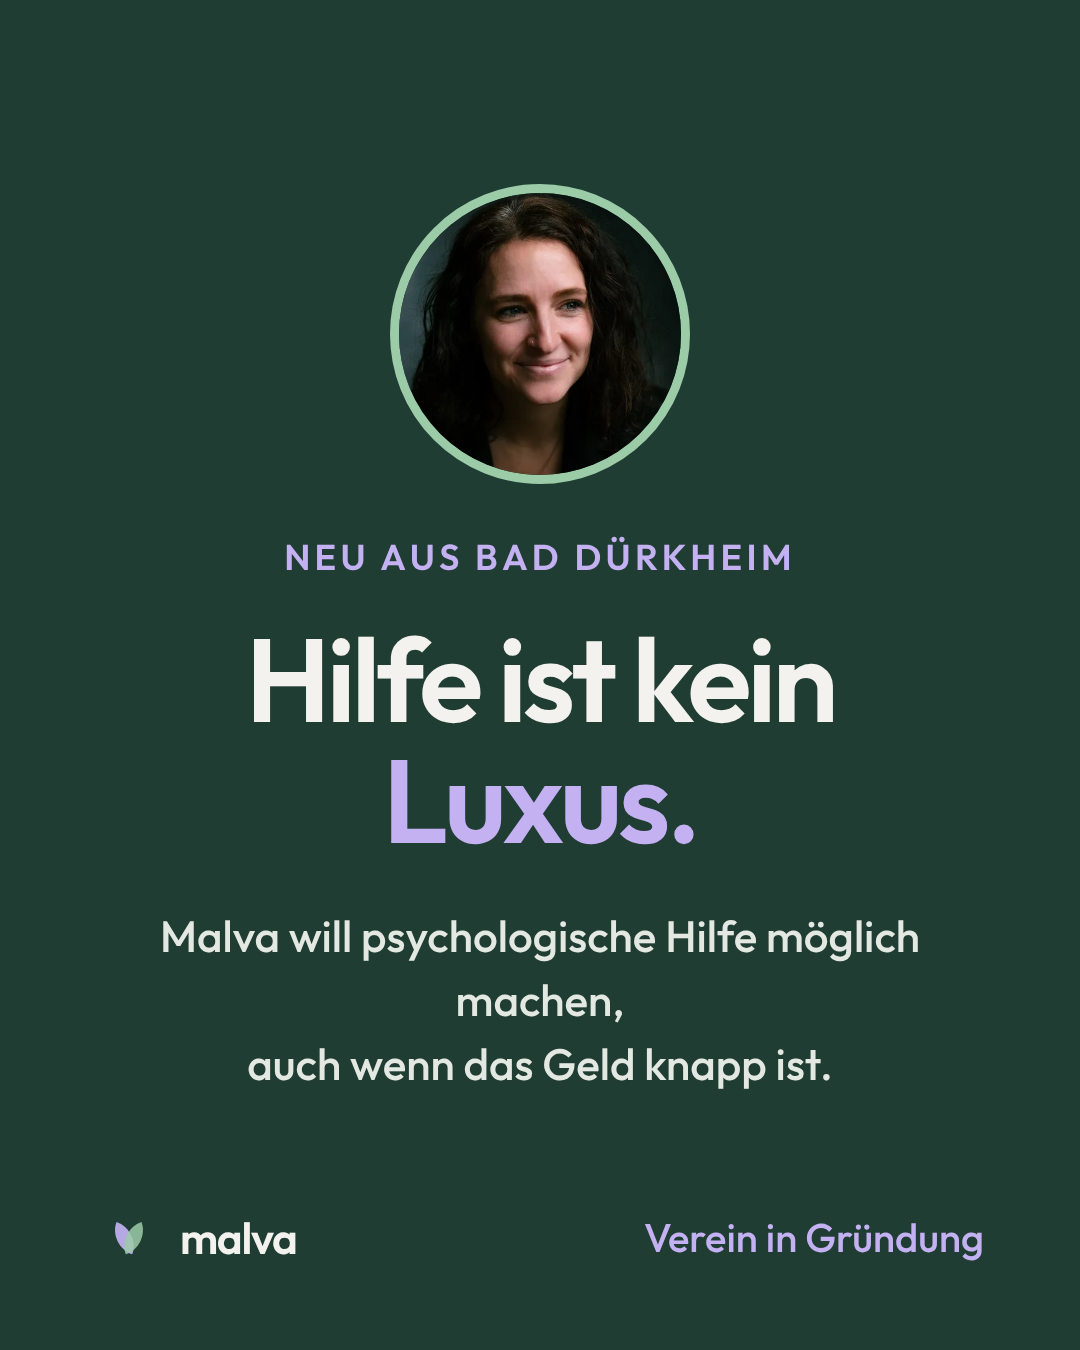
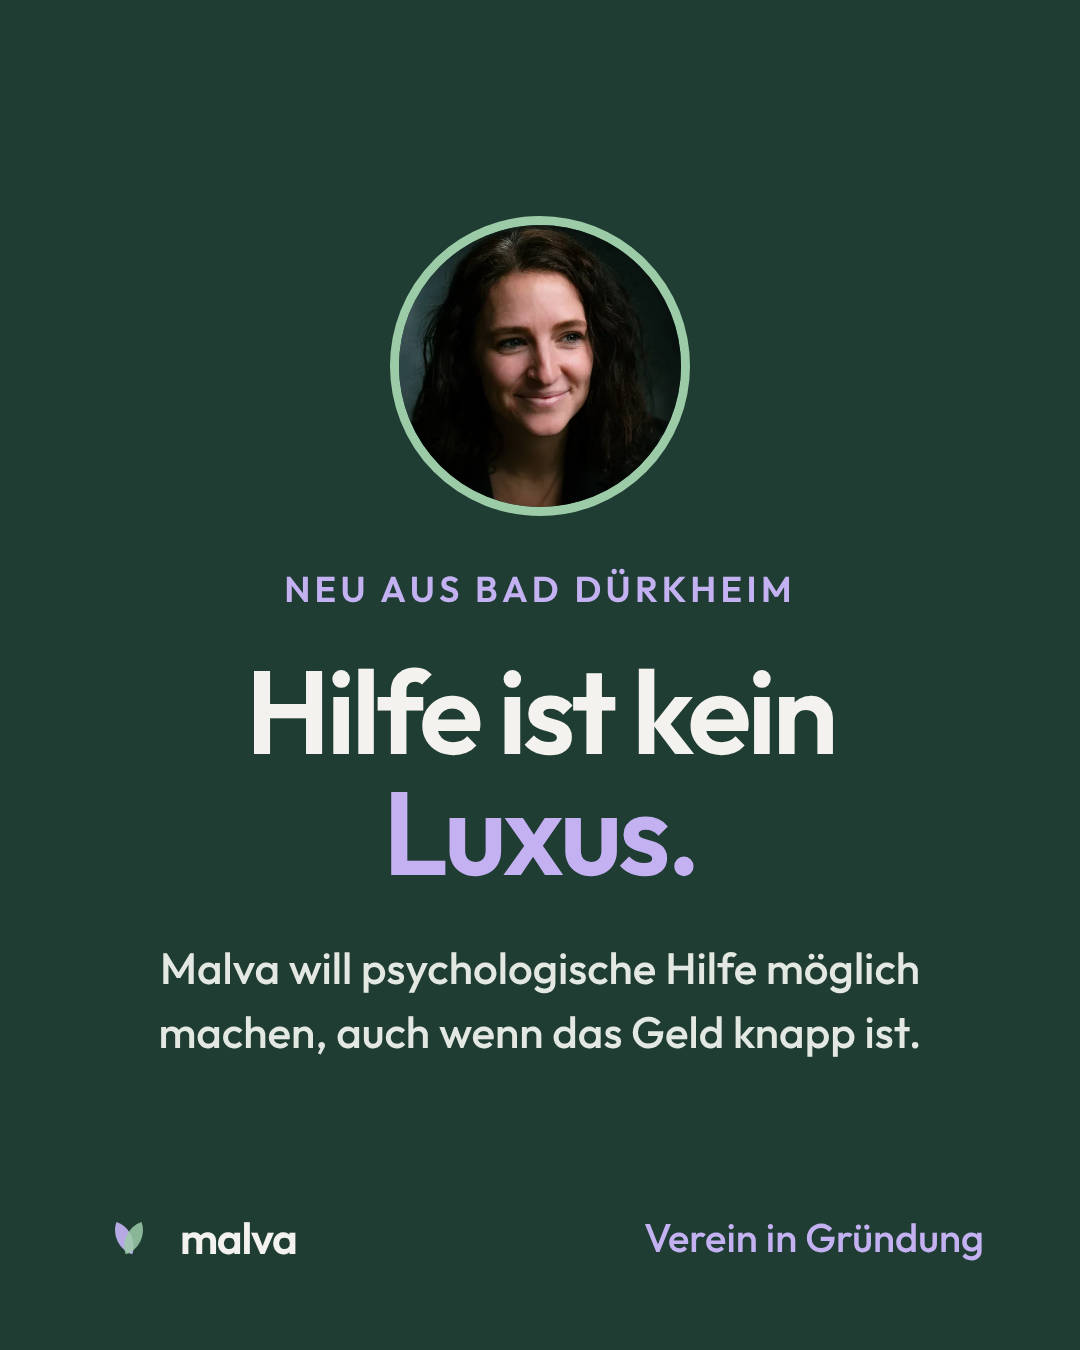
Facebook-Vorstellung: ohne Spendenaufruf und Teamfotos, Fokus Netzwerk
Claude-Session: https://claude.ai/code/session_015uEer6M6e5oi78ZvJtGjnt

Changed region(s): [[0.2139, 0.1244, 0.7944, 0.6533], [0.1528, 0.6844, 0.8556, 0.8089]]

diff --git a/malva-website/instagram/facebook-vorstellung/slides.html b/malva-website/instagram/facebook-vorstellung/slides.html
@@ -38,6 +38,8 @@ h2{font-weight:600;font-size:82px;line-height:1.12;letter-spacing:-.025em}
 .faces img{width:180px;height:180px;border-radius:50%;object-fit:cover;border:5px solid var(--sl)}
 .light .faces img{border-color:var(--s)}
 .ct{margin-top:50px;font-size:38px;line-height:1.6;font-weight:500}
+.fb .small{display:block;font-size:32px;line-height:1.4;font-weight:400;opacity:.85;margin-top:6px}
+.fb .list li b{font-weight:600}
 </style></head><body>
 <template id="mark-d"><svg viewBox="0 0 200 200"><path transform="translate(84 104) rotate(-26)" d="M0 -62 C34 -30 34 30 0 62 C-34 30 -34 -30 0 -62 Z" fill="#C3B1F2" fill-opacity=".92"/><path transform="translate(116 104) rotate(26)" d="M0 -62 C34 -30 34 30 0 62 C-34 30 -34 -30 0 -62 Z" fill="#9CCBA8" fill-opacity=".85"/></svg></template>
 <template id="mark-h"><svg viewBox="0 0 200 200"><path transform="translate(84 104) rotate(-26)" d="M0 -62 C34 -30 34 30 0 62 C-34 30 -34 -30 0 -62 Z" fill="#A58BEA" fill-opacity=".9"/><path transform="translate(116 104) rotate(26)" d="M0 -62 C34 -30 34 30 0 62 C-34 30 -34 -30 0 -62 Z" fill="#7FAF8E" fill-opacity=".82"/></svg></template>
@@ -47,7 +49,7 @@ h2{font-weight:600;font-size:82px;line-height:1.12;letter-spacing:-.025em}
   <img class="me2" src="../../src/assets/img/natascha-helbig-studio2-rund.webp" alt="">
   <p class="kicker">Neu aus Bad Dürkheim</p>
   <h1 style="font-size:118px">Hilfe ist kein <span class="hl">Luxus.</span></h1>
-  <p class="body" style="margin-top:44px">Malva will psychologische Hilfe möglich machen,<br>auch wenn das Geld knapp ist.</p>
+  <p class="body" style="margin-top:44px;max-width:820px">Malva will psychologische Hilfe möglich machen, auch wenn das Geld knapp ist.</p>
   <div class="foot"><div class="brand" data-mark="d"><span>malva</span></div><span class="more">Verein in Gründung</span></div>
 </section>
 <section class="slide light fb" id="s2">
@@ -57,15 +59,17 @@ h2{font-weight:600;font-size:82px;line-height:1.12;letter-spacing:-.025em}
     <li><span data-mark="h"></span><span><b>Begleiten</b> bei Anträgen für Krankenkasse und Ämter</span></li>
     <li><span data-mark="h"></span><span><b>Vermitteln</b> an qualifizierte Fachleute</span></li>
   </ul>
-  <p class="kicker" style="margin-top:80px">Wir suchen</p>
-  <p class="body" style="margin-top:0;font-size:46px">Partner:innen, Sponsoren und Menschen, die mitmachen möchten.</p>
   <div class="foot"><div class="brand" data-mark="h"><span>malva</span></div><span class="more">Teilen kann heilen.</span></div>
 </section>
-<section class="slide dark fb center" id="s3">
-  <p class="kicker">Das Team</p>
-  <h1 style="font-size:104px">8 Menschen.<br><span class="hl">Ein Ziel.</span></h1>
-  <div class="faces"><img src="../../src/assets/img/natascha-helbig-studio2-rund.webp" alt=""><img src="../../src/assets/img/jennifer-rebelein-rund.webp" alt=""><img src="../../src/assets/img/christine-franz-rund.webp" alt=""><img src="../../src/assets/img/marco-kraft-rund.webp" alt=""><img src="../../src/assets/img/natascha-pusch-rund.webp" alt=""><img src="../../src/assets/img/christina-schifferer-rund.webp" alt=""><img src="../../src/assets/img/helmut-vohl-rund.webp" alt=""><img src="../../src/assets/img/florian-wittmann-rund.webp" alt=""></div>
-  <p class="ct">info@malva-ev.de · @malva.ev</p>
+<section class="slide dark fb" id="s3">
+  <p class="kicker">Wir bauen ein Netzwerk auf</p>
+  <h2 style="font-size:92px">Mach mit in <span class="hl">deiner Region.</span></h2>
+  <ul class="list" style="margin-top:50px">
+    <li><span data-mark="d"></span><span><b>Fachleute</b><span class="small">Psychotherapeut:innen, Heilpraktiker:innen für Psychotherapie, Berater:innen und Coaches</span></span></li>
+    <li><span data-mark="d"></span><span><b>Anlaufstellen</b><span class="small">Beratungsstellen, Arztpraxen und Apotheken, die auf Malva hinweisen</span></span></li>
+    <li><span data-mark="d"></span><span><b>Förderer</b><span class="small">Praxen und Unternehmen, die uns unterstützen</span></span></li>
+  </ul>
+  <p class="ct" style="color:var(--sl)">info@malva-ev.de · @malva.ev</p>
   <div class="foot"><div class="brand" data-mark="d"><span>malva</span></div><span class="more">Bad Dürkheim</span></div>
 </section>
 <script>document.querySelectorAll("[data-mark]").forEach(el=>el.prepend(document.getElementById("mark-"+el.dataset.mark).content.cloneNode(true)));</script></body></html>
